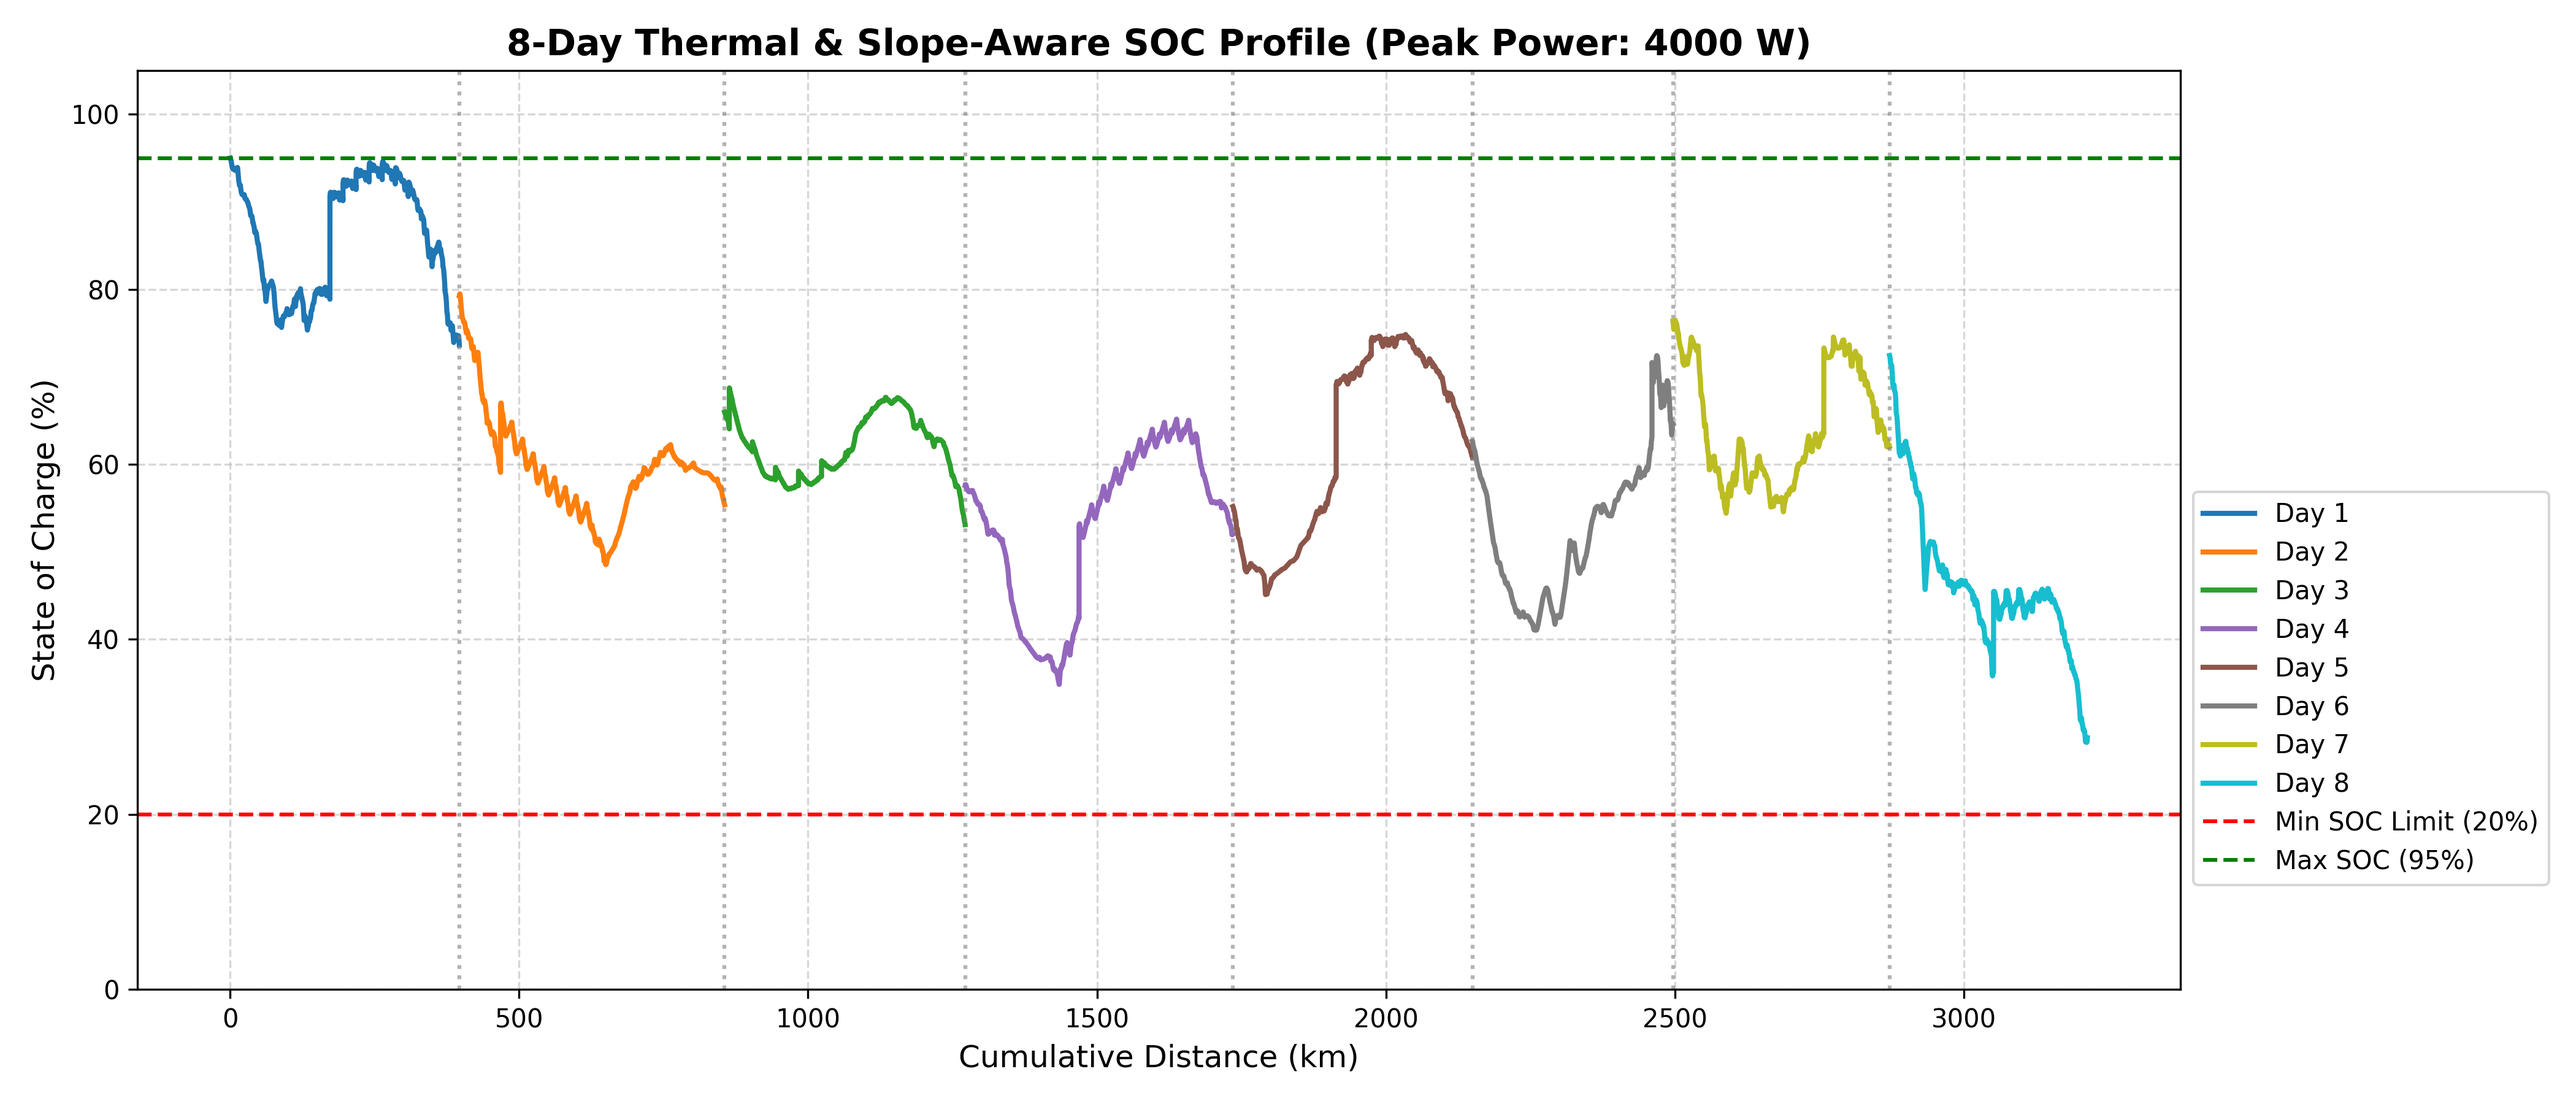
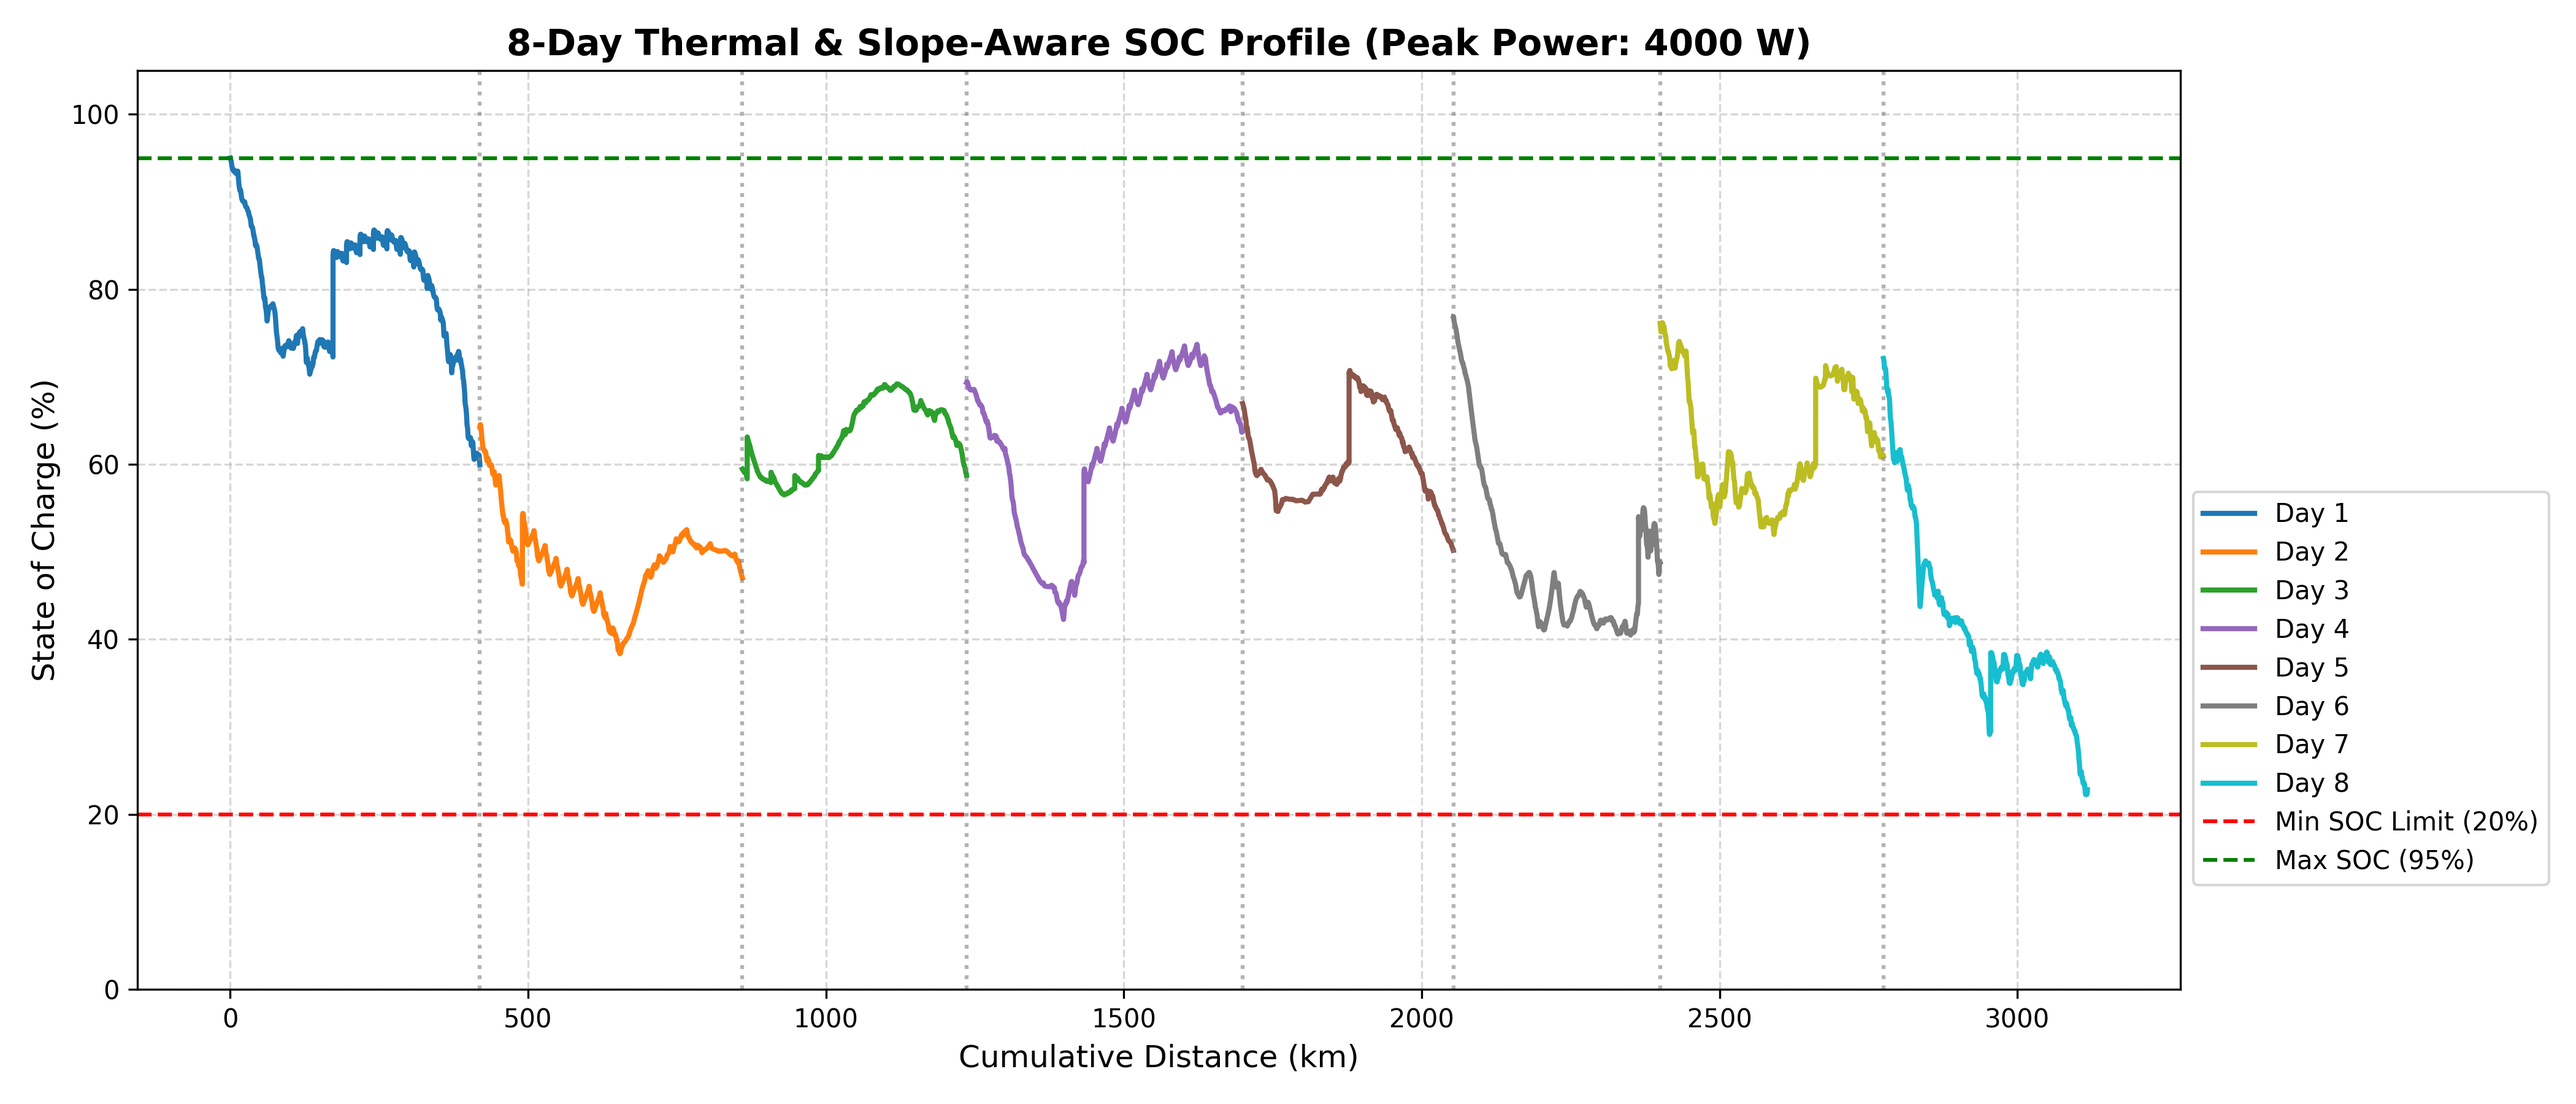
updated multiday with correct bounds for velocity

diff --git a/Fallback Model/multiday.py b/Fallback Model/multiday.py
@@ -692,13 +692,13 @@ def plot_soc_profile(optimal_v, optimal_n):
     plt.show()
 
 def run_joint_optimization():
-    speed_bounds = [(45, 75)] * 16
+    speed_bounds = [(50, 75)] * 16
     loop_bounds = [(1, 10)] * 8  
     bounds = speed_bounds + loop_bounds
     integrality = [True] * 24
 
     v_init = [65, 60, 60, 55, 60, 55, 55, 55, 60, 55, 55, 50, 55, 50, 50, 50]
-    n_init = [6, 4, 3, 5, 3, 2, 1, 1]
+    n_init = [7, 9, 5, 10, 5, 2, 2, 2]
     x0_guess = np.array(v_init + n_init)
 
     max_generations = 100
@@ -729,7 +729,7 @@ def run_joint_optimization():
     optimal_v = [(int(best_x[i]), int(best_x[i + 1])) for i in range(0, 16, 2)]
     optimal_n = [int(val) for val in best_x[16:]]
 
-    x_all, _, min_soc, day_end_times, overtime_sec, max_pwr = stitchAllDays(optimal_n, optimal_v)
+    x_all, y_all, min_soc, day_end_times, overtime_sec, max_pwr = stitchAllDays(optimal_n, optimal_v)
     best_dist = float(x_all[-1][-1])
 
     print("\n--- Thermal & Slope-Aware Optimization Complete ---")
@@ -739,7 +739,7 @@ def run_joint_optimization():
     print("Optimal Schedule (SAST Local Times):")
     for day in range(8):
         end_time_str = datetime.fromtimestamp(day_end_times[day], tz=SA_TZ).strftime("%H:%M:%S SAST")
-        print(f"  Day {day+1}: Loops = {optimal_n[day]}, Stage Speeds = {optimal_v[day]} km/h | Finish Time: {end_time_str}")
+        print(f"  Day {day+1}: Start SoC: {y_all[day][0]} |Loops = {optimal_n[day]}, Stage Speeds = {optimal_v[day]} km/h | Finish Time: {end_time_str} | Finish SoC: {y_all[day][-1]}")
 
     return optimal_v, optimal_n, best_dist
 
